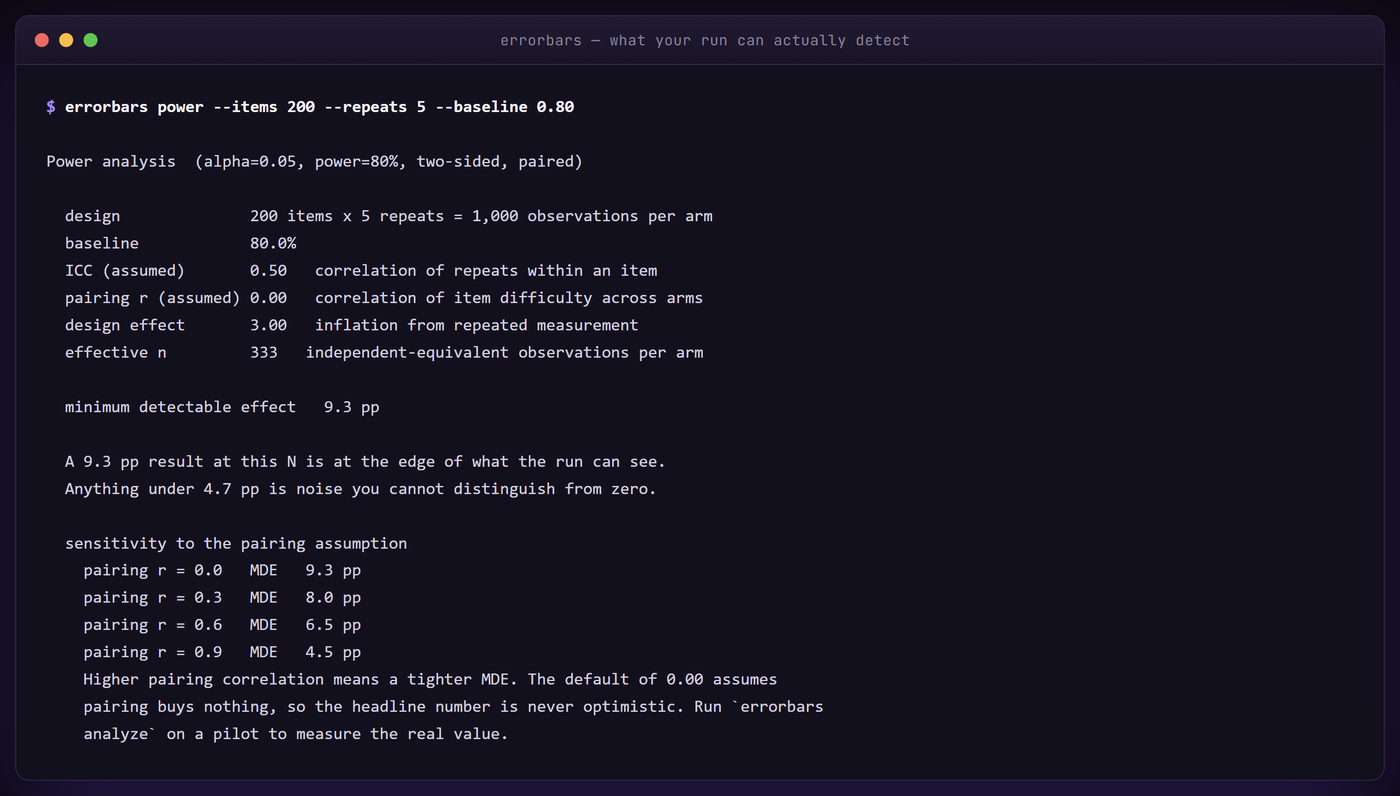
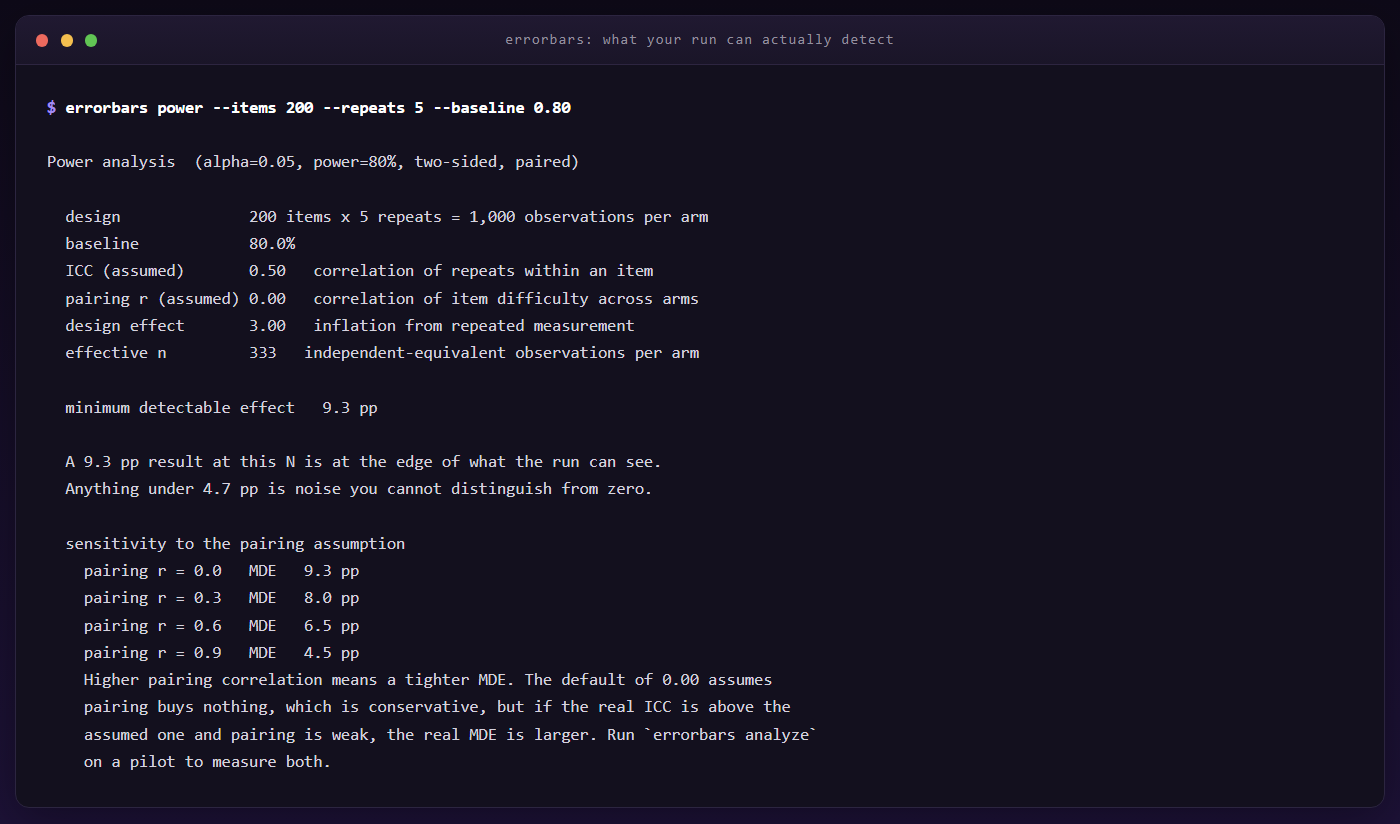
fix: correct three fact-check errors and drop the "never optimistic" claim
- stats.effects docstring: the strip-articles fixture effect is about -3 pp
  (-3.16 by formula), not -3.8. The design-model margin claim still holds:
  the demo prints MDE 4.8pp by design, CI [-4.6, -0.1].
- README: effective n never falls below the item count; the 200 to 1,000
  bound holds only with no pairing benefit (ICC 0.9 with pairing 0.9
  prints effective n 1,818).
- power CLI text, --pair-corr help, stats.power docstring and the README
  quote: the pairing default of 0 is conservative, but a real ICC above
  the assumed one with weak pairing makes the real MDE larger, so the
  headline number is not guaranteed safe.
- README install note, pyproject comment, cli docstring: the PyPI package
  named errorbars is a different project, so `uvx errorbars` installs that.
- docs/demo.png re-rendered from the new CLI output, colon in the title.
- CHANGELOG: Fixed entry under Unreleased; the 0.1.0 entry is unchanged.

diff --git a/src/errorbars/cli.py b/src/errorbars/cli.py
@@ -3,7 +3,7 @@
 ``errorbars power`` is the flagship and is deliberately the cheapest thing in the
 package to run: pure arithmetic, no network, no key, no config file, no results
 directory. If a user only ever runs one errorbars command, it should be that one, and it
-should work three seconds after `uvx errorbars power`.
+should work three seconds after `uvx --from git+... errorbars power`.
 """
 
 from __future__ import annotations
@@ -88,7 +88,8 @@ def build_parser() -> argparse.ArgumentParser:
         default=0.0,
         help=(
             "correlation of item difficulty across arms, 0-1 (default: 0.0, which "
-            "assumes pairing buys nothing, so the answer is never optimistic)"
+            "assumes pairing buys nothing; conservative, but if the real ICC is above "
+            "--icc and pairing is weak, the real MDE is larger)"
         ),
     )
     power.add_argument(

diff --git a/src/errorbars/stats/power.py b/src/errorbars/stats/power.py
@@ -58,9 +58,10 @@ What this model does NOT do
   in for a full random-effects structure.
 * It assumes a balanced design: every item gets the same number of repeats in both arms.
 
-Defaults are deliberately conservative: ``pair_corr = 0.0`` assumes pairing buys
-*nothing*, so the reported MDE is never optimistic. Measure both parameters from a real
-run with ``errorbars analyze`` and feed them back in.
+The ``pair_corr = 0.0`` default is deliberately conservative: it assumes pairing buys
+*nothing*. The ``icc`` default is not a bound in either direction: if the real ICC is
+higher and pairing is weak, the real MDE is larger than the reported one. Measure both
+parameters from a real run with ``errorbars analyze`` and feed them back in.
 """
 
 from __future__ import annotations

diff --git a/src/errorbars/report.py b/src/errorbars/report.py
@@ -228,9 +228,12 @@ def render_power(
             "    Higher pairing correlation means a tighter MDE. The default of 0.00 assumes"
         )
         lines.append(
-            "    pairing buys nothing, so the headline number is never optimistic. Run `errorbars"
+            "    pairing buys nothing, which is conservative, but if the real ICC is above the"
         )
-        lines.append("    analyze` on a pilot to measure the real value.")
+        lines.append(
+            "    assumed one and pairing is weak, the real MDE is larger. Run `errorbars analyze`"
+        )
+        lines.append("    on a pilot to measure both.")
 
     return "\n".join(lines)
 

diff --git a/src/errorbars/stats/effects.py b/src/errorbars/stats/effects.py
@@ -49,7 +49,7 @@ positive claim, "underpowered" is only an admission, so the asymmetry belongs th
 
 Taking the larger of the two, or the design figure alone, produces demonstrably false
 nulls. There is one in this repository's own demo: ``strip-articles`` has a real effect
-of roughly -3.8 percentage points built into the fixture, and a design-model margin
+of about -3 percentage points built into the fixture, and a design-model margin
 labels it "null" while the smaller margin correctly calls it underpowered.
 
 Read this before trusting a default null verdict

diff --git a/README.md b/README.md
@@ -16,9 +16,10 @@
 
 **This project caught itself doing bad statistics.** Partway through building it, `errorbars
 power` was pointed at its own planned design (200 items, 5 repeats) and reported an effective
-sample size *smaller than the item count*. That is arithmetically impossible: effective n is
-`items × repeats / design effect`, and the design effect can never exceed the repeat count, so
-for that design the answer is pinned between 200 and 1,000. The power model was wrong.
+sample size *smaller than the item count*. That is arithmetically impossible: effective n can
+never fall below the item count. With no pairing benefit it is
+`items × repeats / design effect`, and the design effect runs from 1 up to the repeat count,
+so for that design the answer is pinned between 200 and 1,000. The power model was wrong.
 
 Corrected, that design cannot reliably resolve anything smaller than **9.3 percentage points**.
 Every figure in this README is printed by the command directly above it, and none of them
@@ -48,8 +49,9 @@ Power analysis  (alpha=0.05, power=80%, two-sided, paired)
     pairing r = 0.6   MDE   6.5 pp
     pairing r = 0.9   MDE   4.5 pp
     Higher pairing correlation means a tighter MDE. The default of 0.00 assumes
-    pairing buys nothing, so the headline number is never optimistic. Run `errorbars
-    analyze` on a pilot to measure the real value.
+    pairing buys nothing, which is conservative, but if the real ICC is above the
+    assumed one and pairing is weak, the real MDE is larger. Run `errorbars analyze`
+    on a pilot to measure both.
 ```
 
 <img src="https://raw.githubusercontent.com/jimmyjames177414/errorbars/main/docs/demo.png" alt="errorbars power analysis output" width="100%">
@@ -127,7 +129,9 @@ flowchart TD
 
 ## Install
 
-Nothing is published to PyPI. Run it straight from the repository:
+Nothing is published to PyPI. The package named `errorbars` on PyPI is a different project,
+so `pip install errorbars` or `uvx errorbars` installs that one, not this. Run this one
+straight from the repository:
 
 ```bash
 uvx --from git+https://github.com/jimmyjames177414/errorbars errorbars power --items 200

diff --git a/CHANGELOG.md b/CHANGELOG.md
@@ -32,6 +32,21 @@ All notable changes to this project are documented here. The format follows
   `0.1.1` without complaint. The change is purely additive, so existing 0.1 directories
   read exactly as before.
 
+### Fixed
+
+- `errorbars power` no longer promises that its headline number errs on the safe side. The
+  `--pair-corr` default of 0 is conservative, but the `--icc` default is not: if the real
+  ICC is higher and pairing is weak, the real MDE is larger. The CLI text, the `--pair-corr`
+  help and the `stats.power` docstring now say so. The 0.1.0 entry below is left as it was
+  released.
+- The `stats.effects` docstring overstated the `strip-articles` effect built into the demo
+  fixture. It is about -3 percentage points (-3.16 by formula).
+- README: effective n can exceed `items × repeats` once pairing helps, so the 200 to 1,000
+  bound now says it holds only with no pairing benefit.
+- README, `pyproject.toml` and the `cli` docstring no longer imply `uvx errorbars` runs this
+  project. The package named `errorbars` on PyPI is a different project; this one runs from
+  GitHub.
+
 ## [0.1.0] - 2026-09-02
 
 First release. A small statistics layer for LLM experiments.
